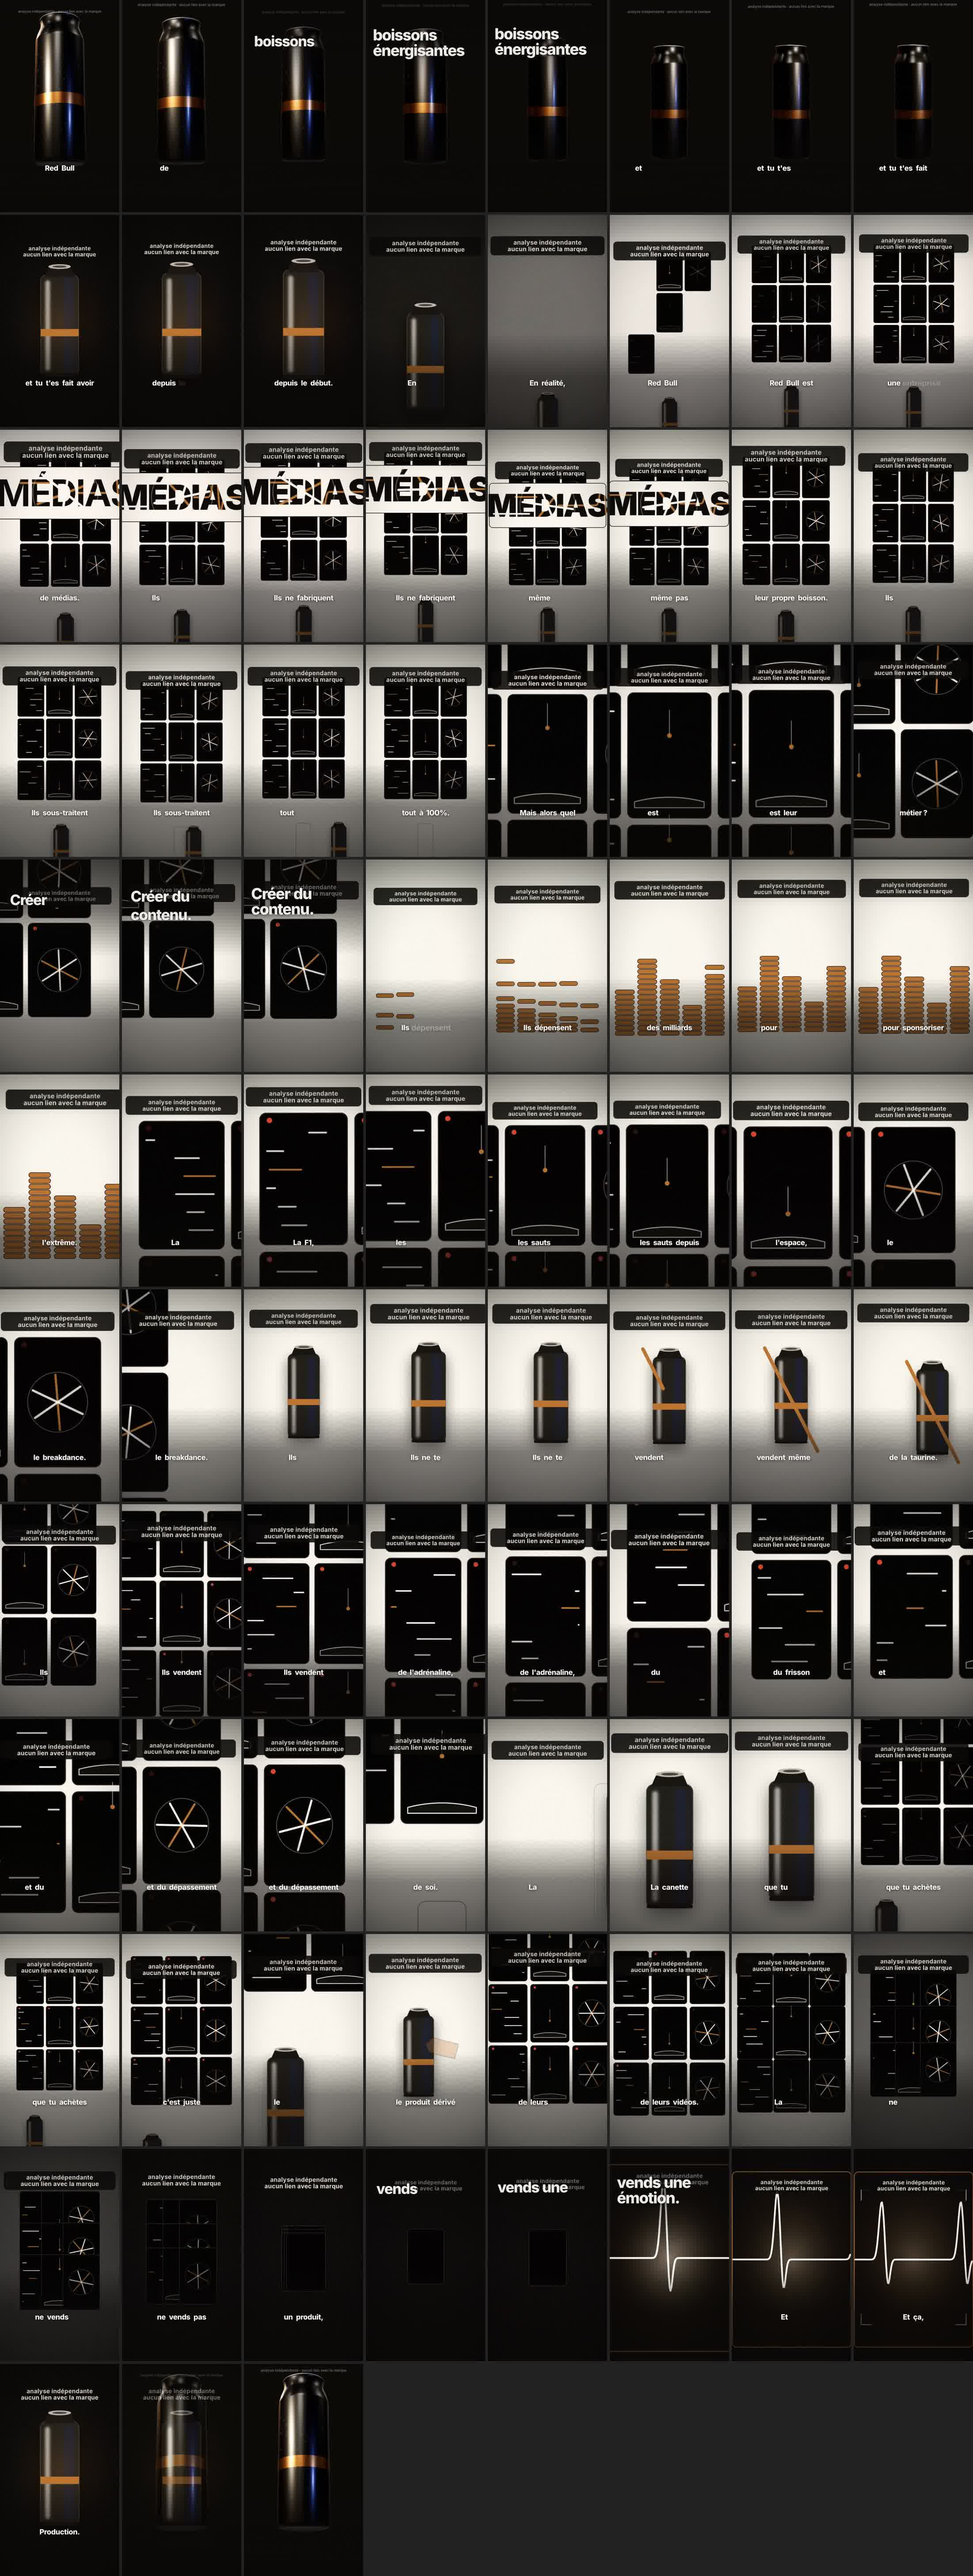
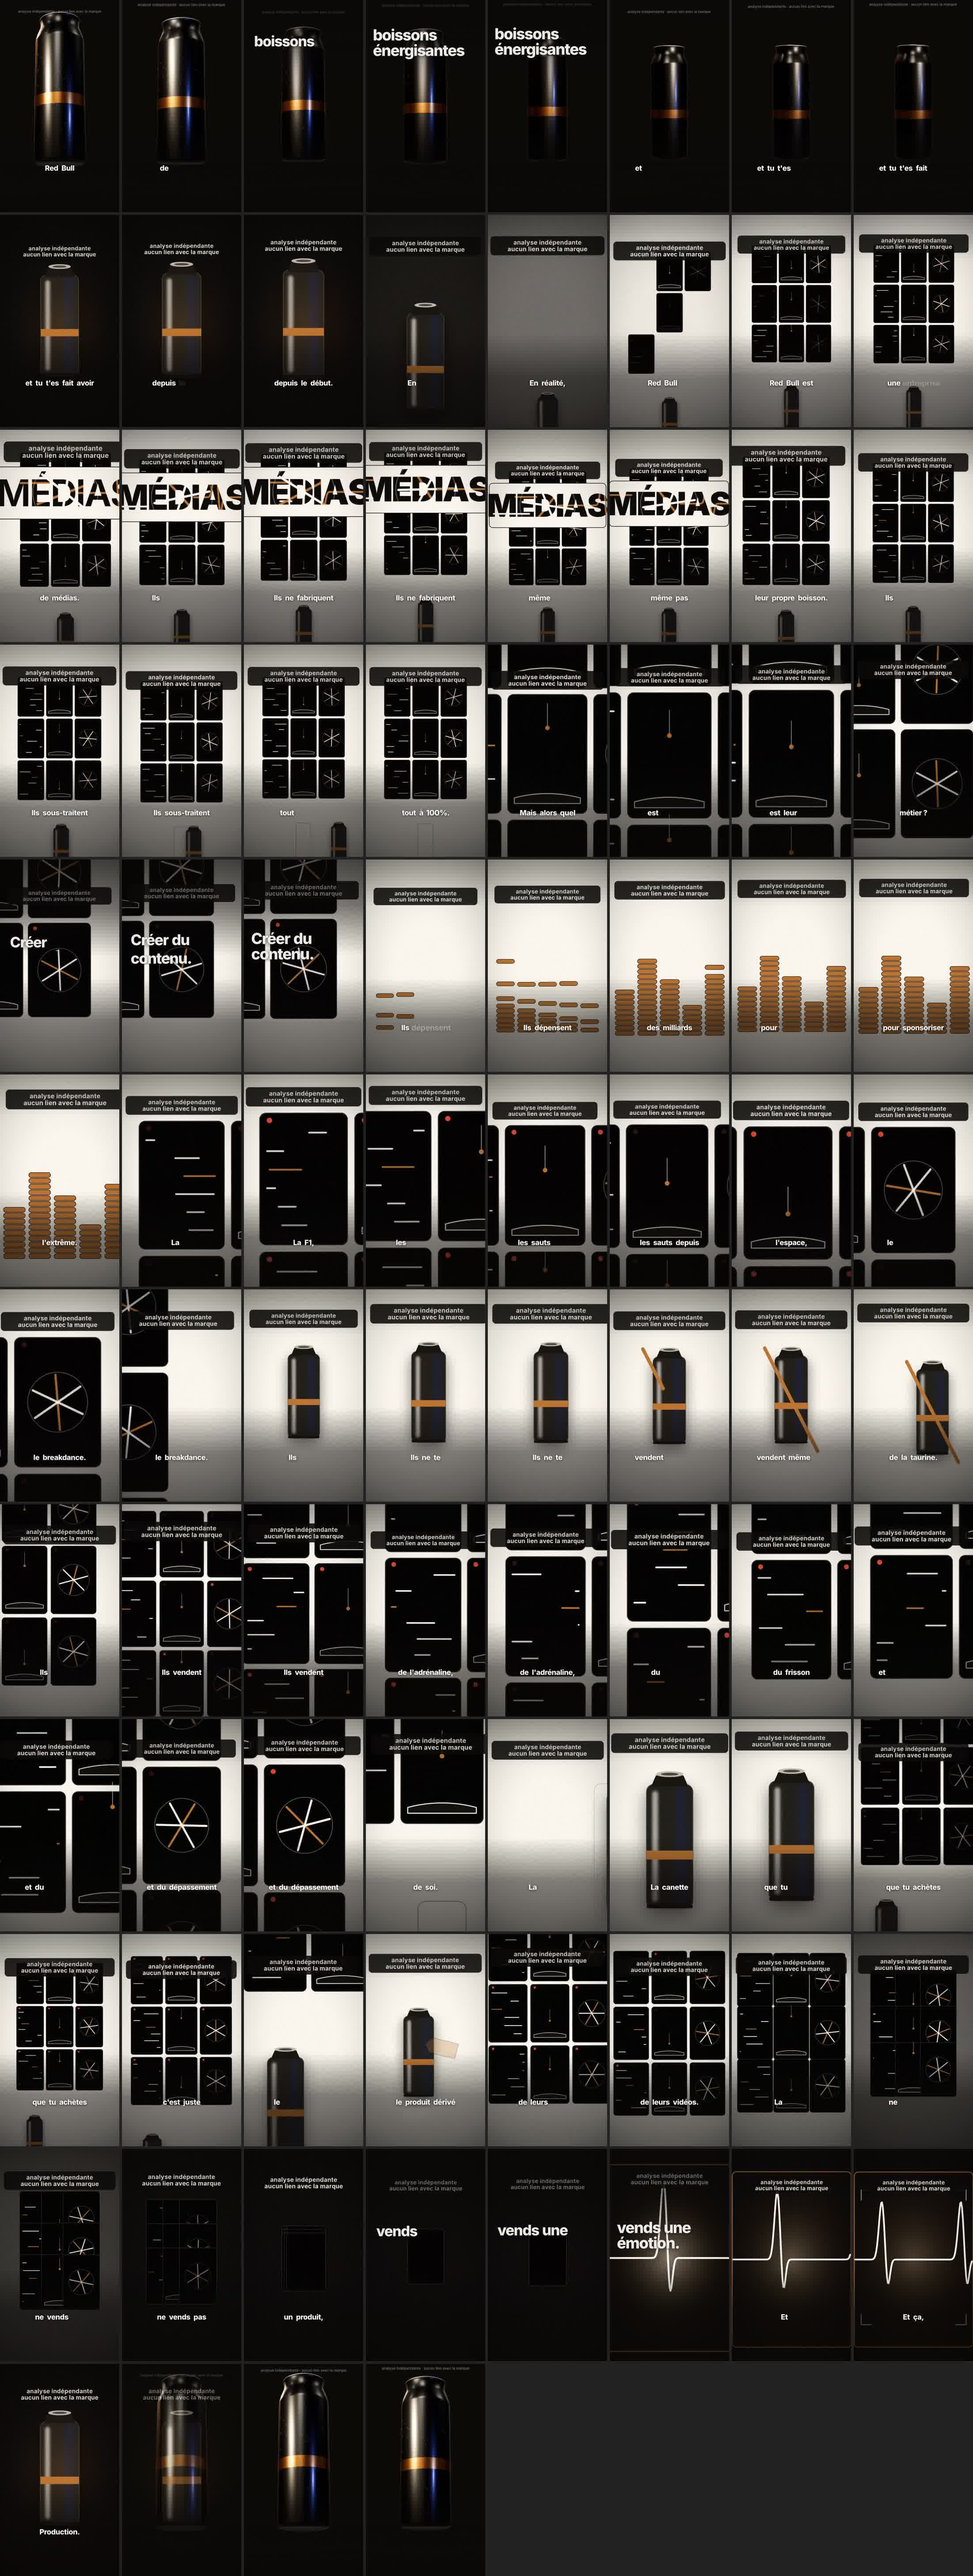
Red Bull t4 rendu, controle 0 problème ; journal 03/11

diff --git a/journal.md b/journal.md
@@ -1,5 +1,10 @@
 # Journal de l'agent marketing Brooze
 
+## 03/11 (3 h 41) — filet, savoir, Red Bull tentative 4 rendue
+- Filet : stories 03→06/11 programmées, aucune en erreur, réserve 10 (> 4).
+- Savoir : S-0017 (12 principes d'animation FR, lu en extrait), A-0011 (volume constant dans l'écrasement/étirement, à vérifier), 3 notions revues ; yt-dlp en 429 sur Mh3e-AjC51Q, vidIQ non joint.
+- Red Bull t4 (V3-4) : mention toujours visible (scene.py), titres décalés (titre_y 680), plan.mp4 + son + rendu final 46,8 s, controle.py 0 problème. Doute : mention grisée vers 37,0 s. comparer + evaluation_4 au prochain passage. Rien programmé ni livré.
+
 ## 02/11 (3 h 41) — filet, savoir, Red Bull tentative 3
 - Filet : stories 02→06/11 couvertes, aucune en erreur, réserve 7 (aucune utilisée).
 - Savoir : séance réduite (S-0016 : 12 principes d'animation, règles de praticiens ; 3 notions revues) ; fanpagekarma.com et creatorflow.so fermés, yt-dlp et vidIQ indisponibles pendant le setup.
